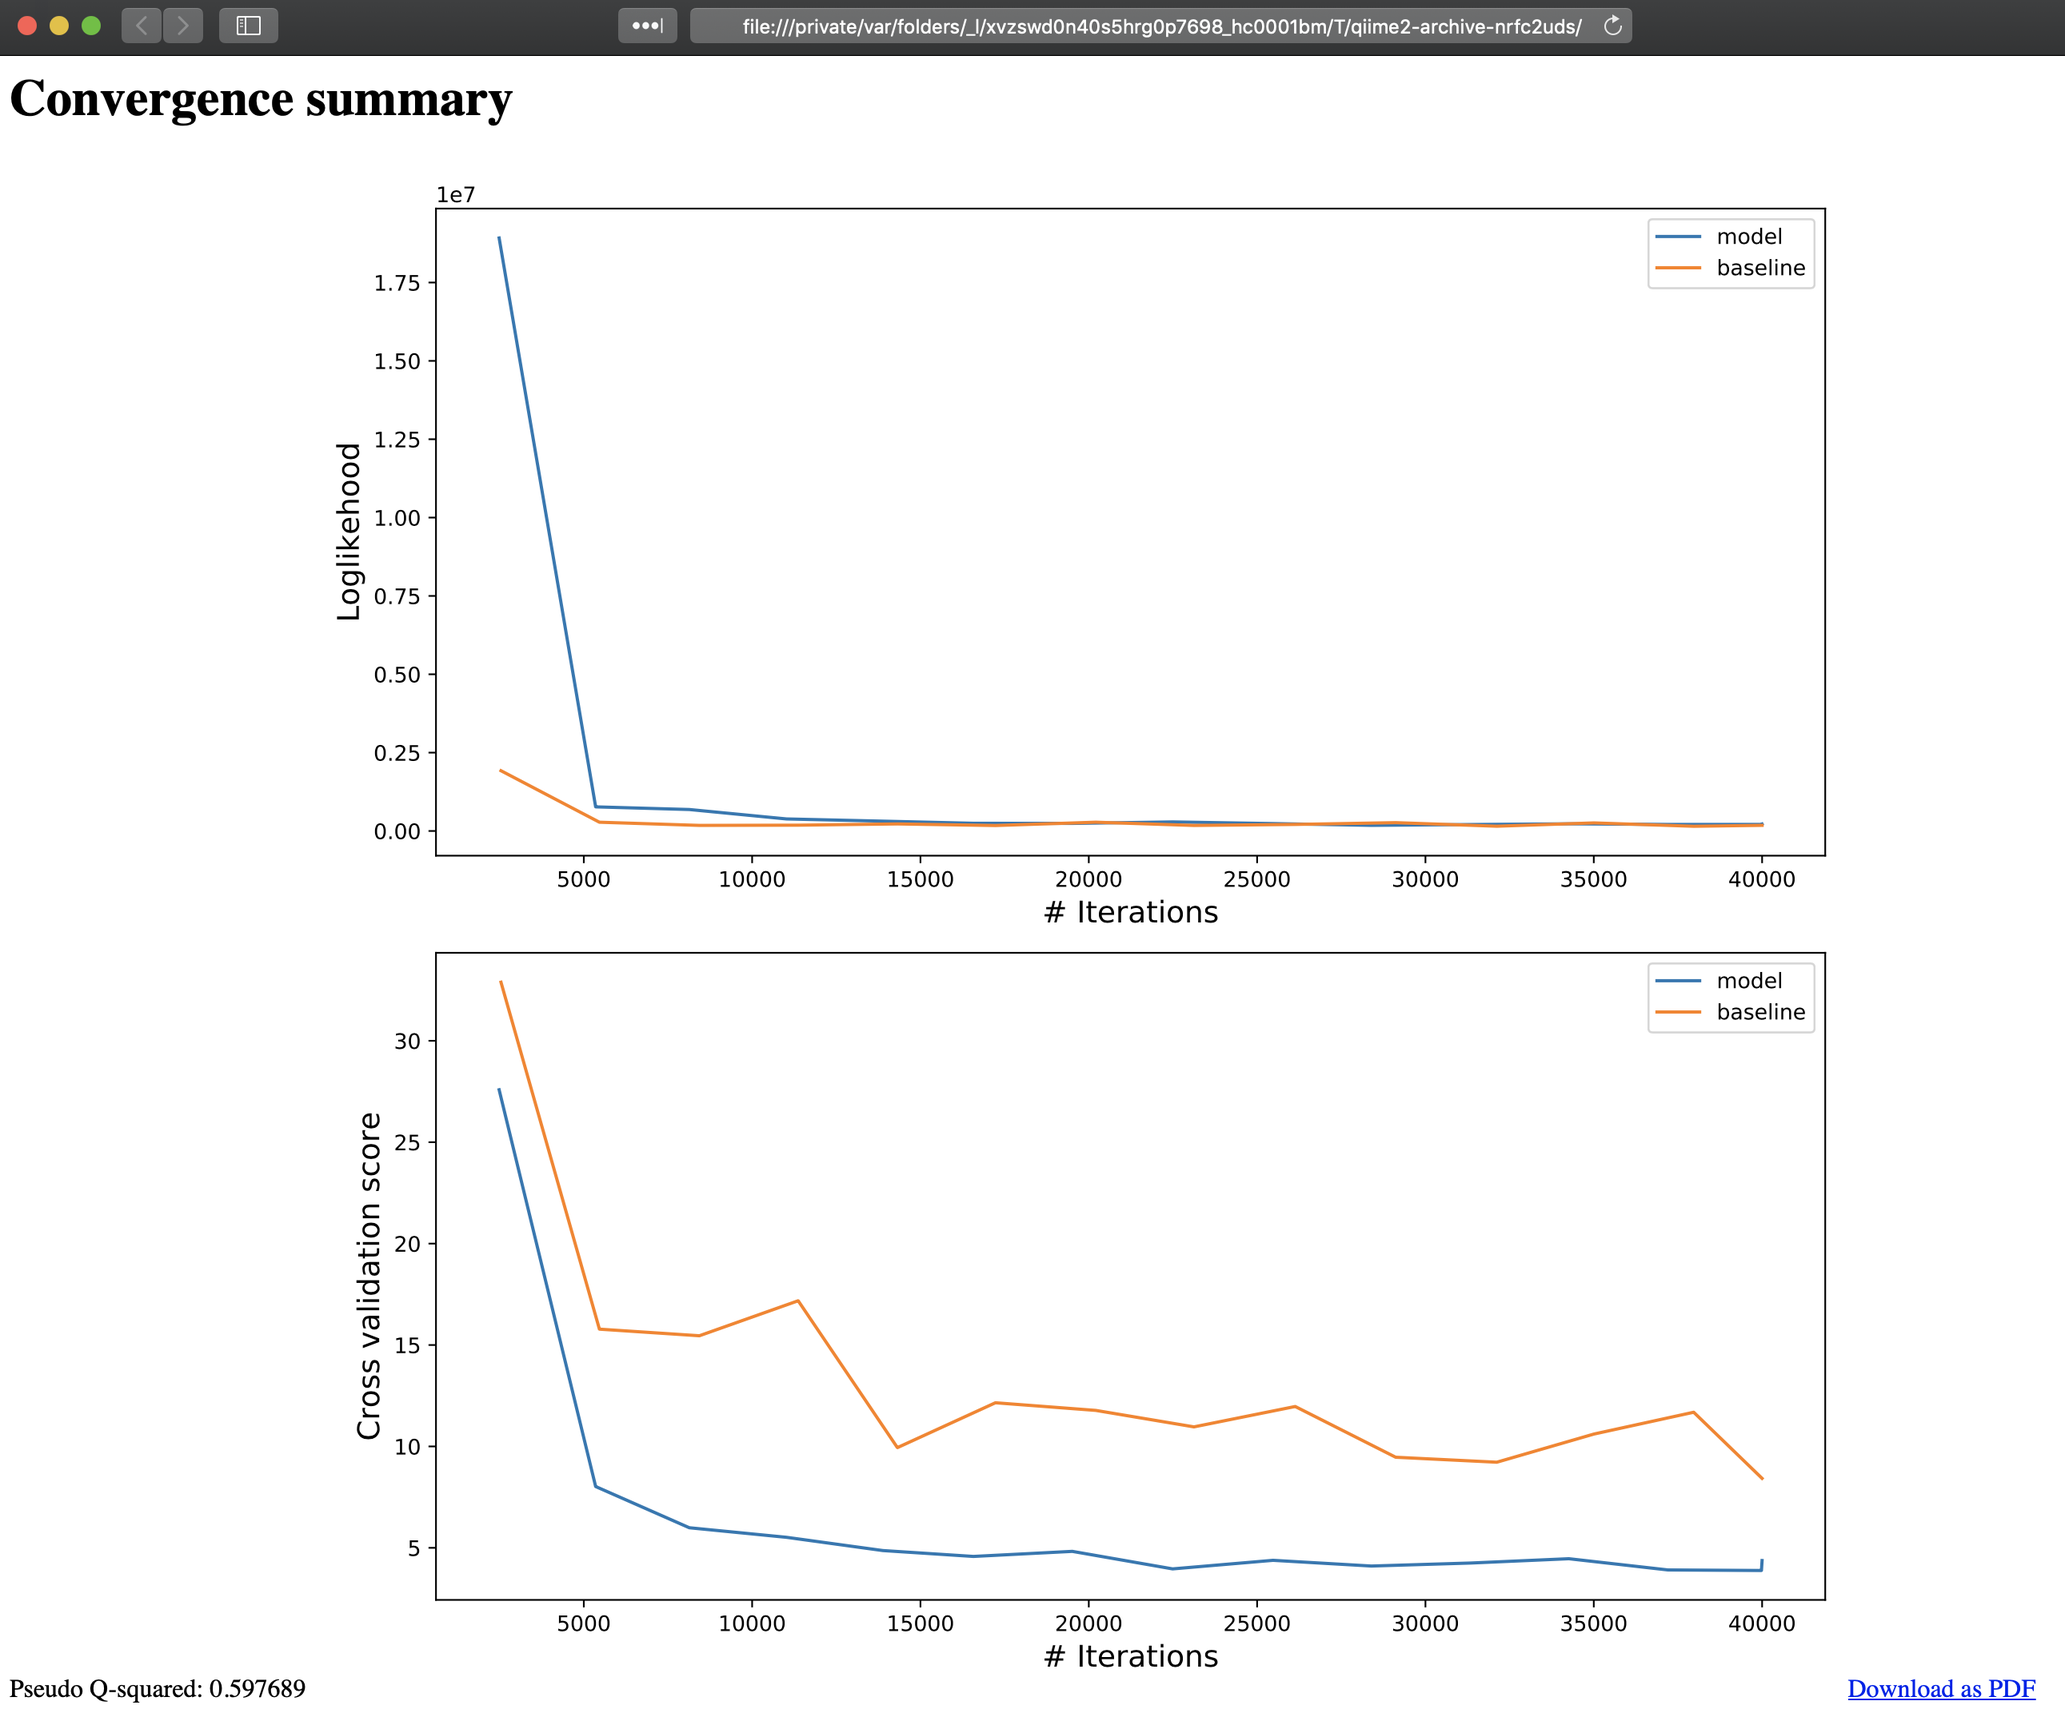
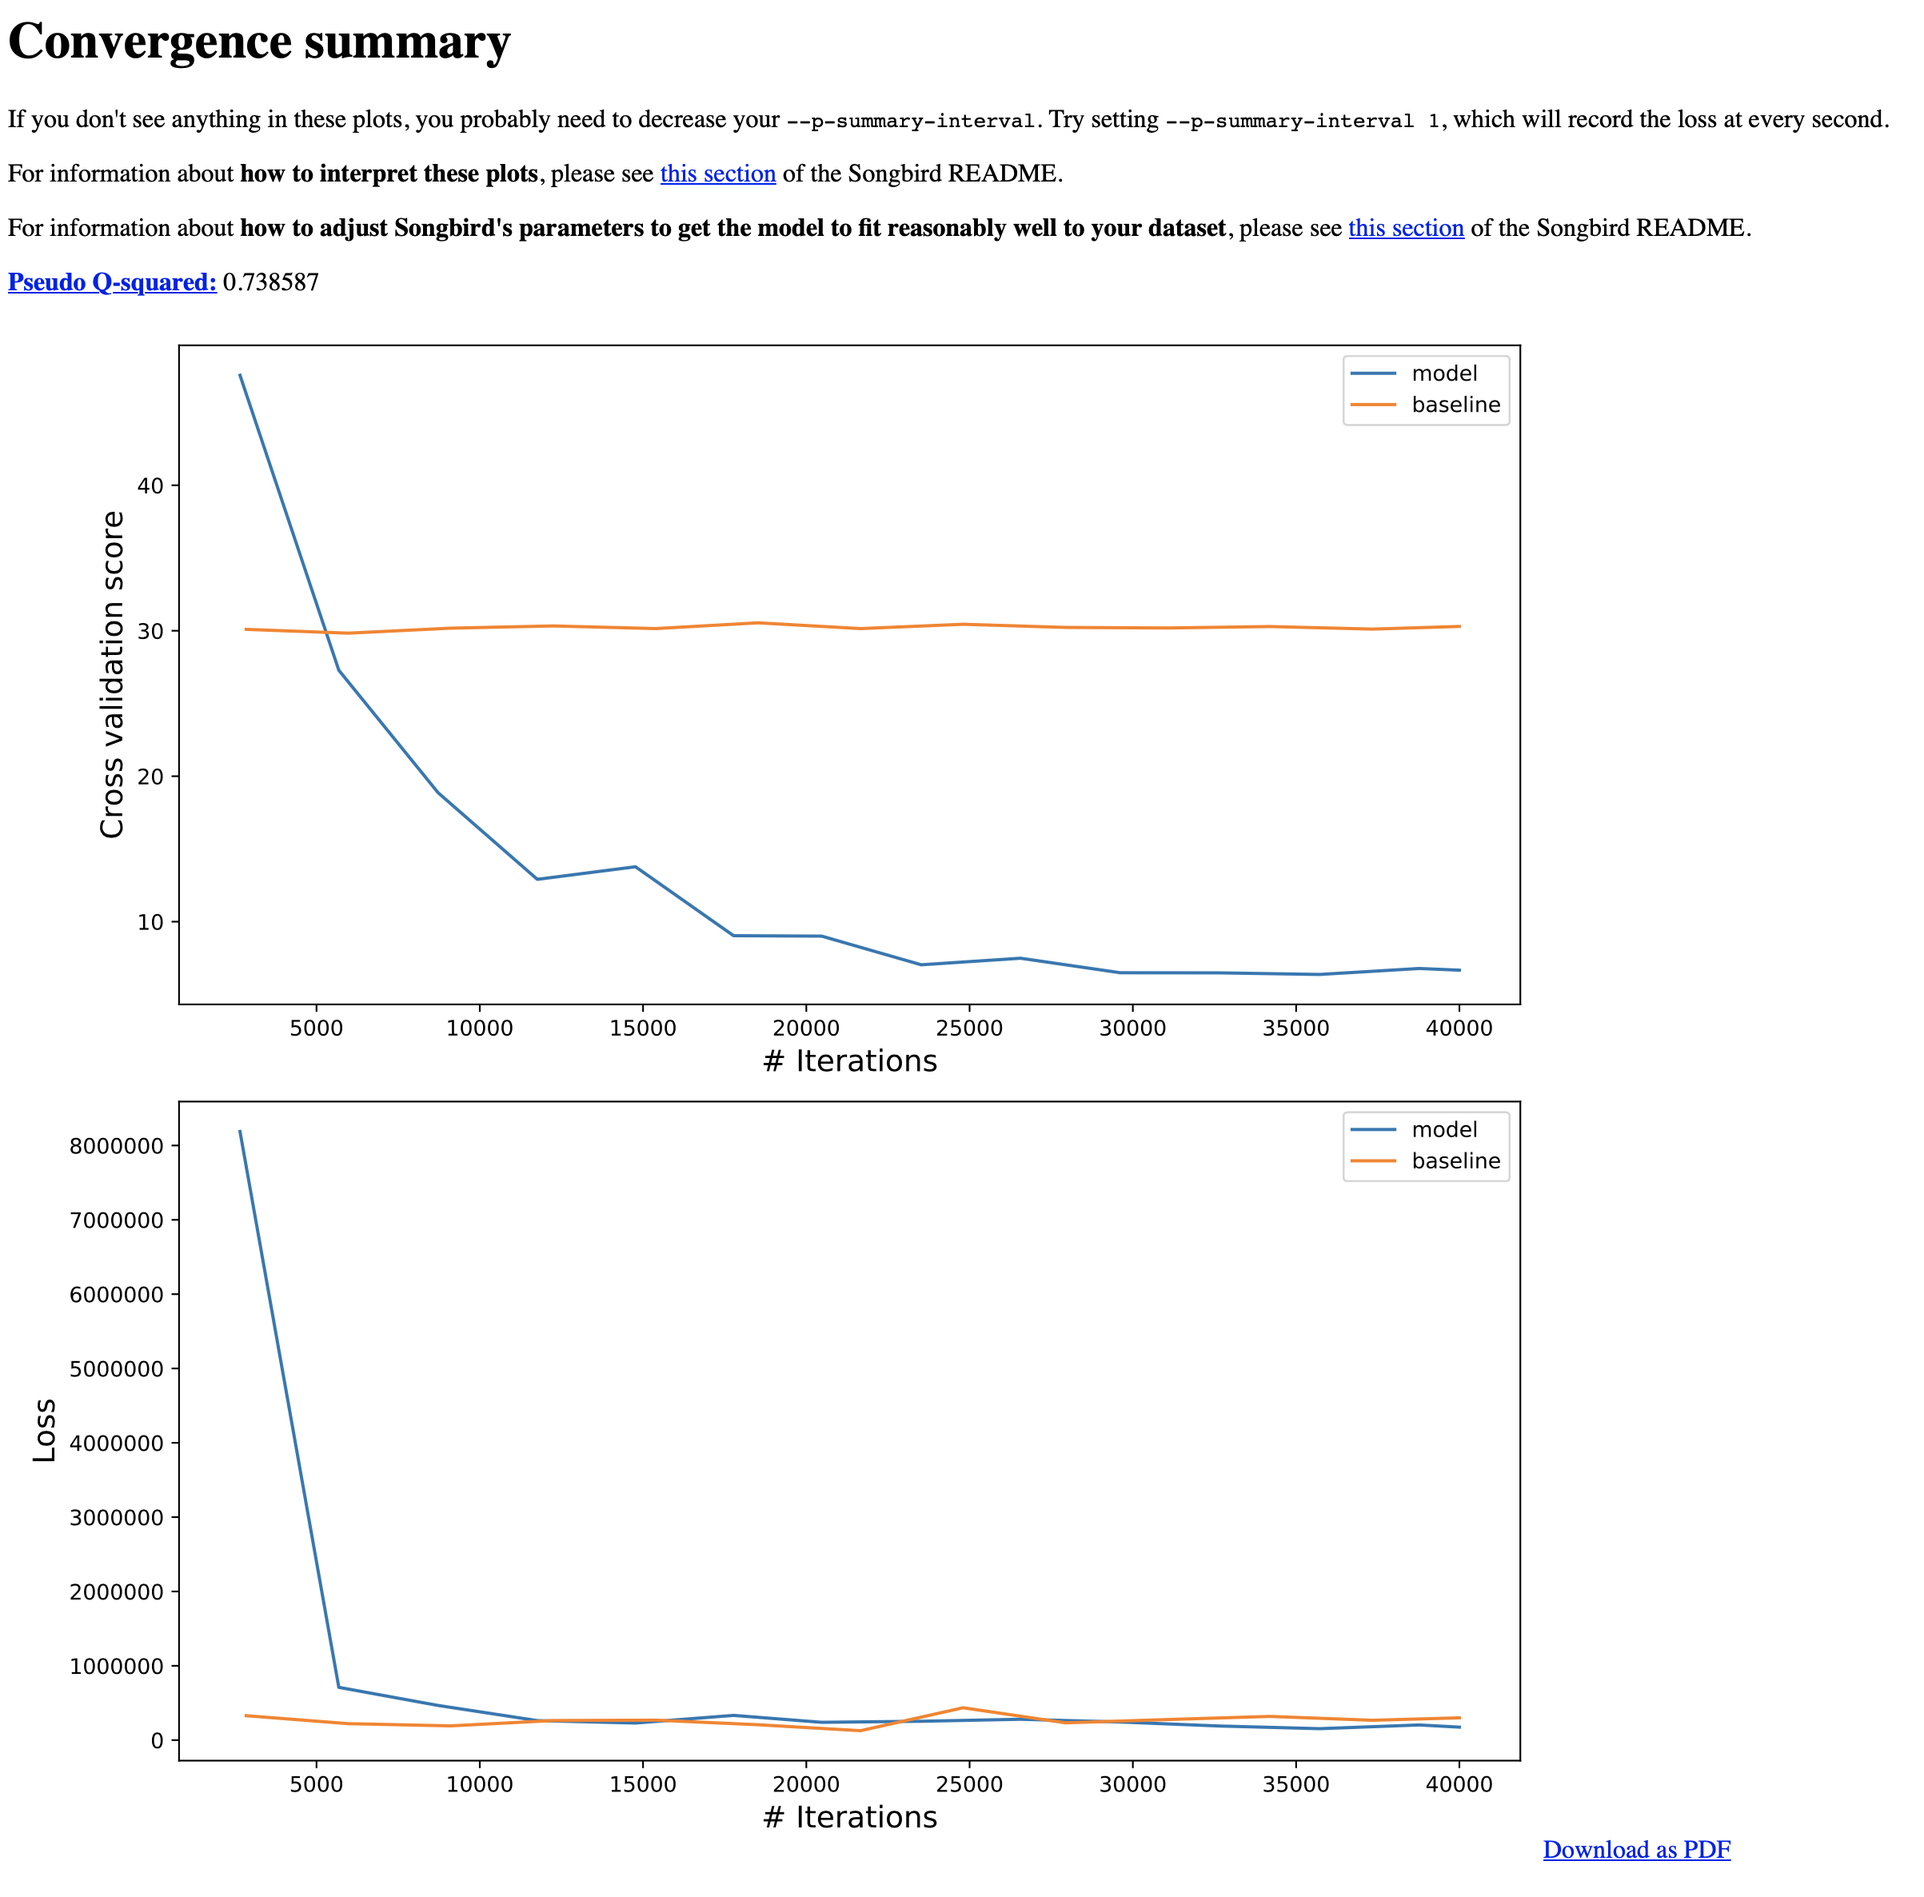
Adding more notes on the training column

diff --git a/README.md b/README.md
@@ -131,6 +131,7 @@ qiime songbird multinomial \
     --p-epochs 10000 \
     --p-differential-prior 0.5 \
     --p-summary-interval 1 \
+    --p-training-column Testing \
     --o-differentials differentials.qza \
     --o-regression-stats regression-stats.qza \
     --o-regression-biplot regression-biplot.qza
@@ -341,6 +342,7 @@ qiime songbird multinomial \
     --m-metadata-file data/redsea/redsea_metadata.txt \
     --p-formula "1" \
     --p-epochs 5000 \
+    --p-training-column Testing \
     --p-summary-interval 1 \
     --o-differentials baseline-diff.qza \
     --o-regression-stats baseline-stats.qza \
@@ -357,15 +359,39 @@ qiime songbird summarize-paired \
 The summary generated will look something like as follows.
 ![Summary of the QIIME 2 Songbird run on the Red Sea data](https://github.com/biocore/songbird/raw/master/images/redsea-tutorial-summarize-paired-output.png "Summary of the QIIME 2 Songbird run on the Red Sea data")
 
+Note that it is very important to have `--p-training-column Testing` in order to specify the holdout samples used for cross-validation.
+See <a href="#training-column">this section on specifying the training column</a> for details on how to assign holdout samples for cross-validation.
+
 This resulting visualization will also include _Q<sup>2</sup>_ values. <span id="explaining-q2"></span>
 
-The _Q<sup>2</sup>_ score is adapted from the Partial least squares literature.  Here it is given by `Q2=1 - model/baseline` where `model=average absolute model error` and `baseline=average absolute baseline error`.  If _Q<sup>2</sup>_ is close to 1, that indicates a high predictive accuracy on the cross validations amples.  If _Q<sup>2</sup>_ is low or below zero, that indicates poor predictive accuracy, suggesting possible overfitting.
+The _Q<sup>2</sup>_ score is adapted from the Partial least squares literature.  Here it is given by `Q2=1 - model/baseline` where `model=average absolute model error` and `baseline=average absolute baseline error`.  If _Q<sup>2</sup>_ is close to 1, that indicates a high predictive accuracy on the cross validations amples.  If _Q<sup>2</sup>_ is low or below zero, that indicates poor predictive accuracy, suggesting possible overfitting. This statistic behaves similarly to _R<sup>2</sup>_ classically used in a ordinary linear regression if `--p-formula 1` in the baseline model.
 
 The baseline model we generated above is super simple, and doesn't look at any
 of the sample metadata fields. This lets us look at how much better our
 "first" model performs compared to this baseline model.
 
-But one can imagine using other baseline models to contrast - for instance, fitting a model on just Temperature to gauge how informative other variables such as Salinity and Oxygen are.  The _Q<sup>2</sup>_ value is the predictive accuracy estimated from the samples left out of the regression fit.  Another common use case is to run model with just the intercept by setting `--p-formula "1"` when running the baseline model. This will allow one to compute something that looks more similar to an _R<sup>2</sup>_ classically used in a ordinary linear regression.
+But one can imagine using other baseline models to contrast - for instance, fitting a model on just Temperature to gauge how informative other variables such as Salinity and Oxygen are.  The _Q<sup>2</sup>_ value is the predictive accuracy estimated from the samples left out of the regression fit.  Another common use case is to run model with just the intercept by looking at other simple baseline models to gauge improvement of fit for a given set of variables. For instance, one could run the following model with just `Depth`
+
+# Generate a baseline model
+qiime songbird multinomial \
+    --i-table redsea.biom.qza \
+    --m-metadata-file data/redsea/redsea_metadata.txt \
+    --p-formula "Depth" \
+    --p-epochs 5000 \
+    --p-training-column Testing \
+    --p-summary-interval 1 \
+    --o-differentials baseline-diff.qza \
+    --o-regression-stats baseline-stats.qza \
+    --o-regression-biplot baseline-biplot.qza
+
+# Visualize the first model's regression stats *and* the baseline model's
+# regression stats
+qiime songbird summarize-paired \
+    --i-regression-stats regression-stats.qza \
+    --i-baseline-stats baseline-stats.qza \
+    --o-visualization paired-summary.qzv
+
+This plot will allow one to investigate how much the model fit improved by adding `Temperature`, `Salinity`, `Oxygen`, `Fluorescence`, and `Nitrate`. A positive _Q<sup>2</sup>_ score indicates an improvement over the baseline model.
 
 
 ### TL;DR
@@ -445,7 +471,7 @@ building predictive models to undercover biological patterns.  See https://xkcd.
 
 The `--differential-prior` command specifies the width of the prior distribution of the differentials. For `--differential-prior 1`, this means 99% of rankings (given in differentials.tsv) are within -3 and +3 (log fold change). The higher differential-prior is, the more parameters can have bigger changes, so you want to keep this relatively small.  If you see overfitting (accuracy and fit increasing over iterations in tensorboard) you may consider reducing the differential-prior in order to reduce the parameter space.
 
-**Q.** What's up with the `--training-column` argument?
+**Q.** What's up with the `--training-column` argument? <span id="training-column"></span>
 
 **A.** That is used for cross-validation if you have a specific reproducibility question that you are interested in answering.  If this is specified, only samples labeled "Train" under this column will be used for building the model and samples labeled "Test" will be used for cross validation.  In other words the model will attempt to predict the feature abundances for the "Test" samples.  The resulting prediction accuracy is used to evaluate the generalizability of the model in order to determine if the model is overfitting or not.  If this argument is not specified, then 5 random samples will be chosen for the test dataset.  If you want to specify more random samples to allocate for cross-validation, the `--num-random-test-examples` argument can be specified.
 
